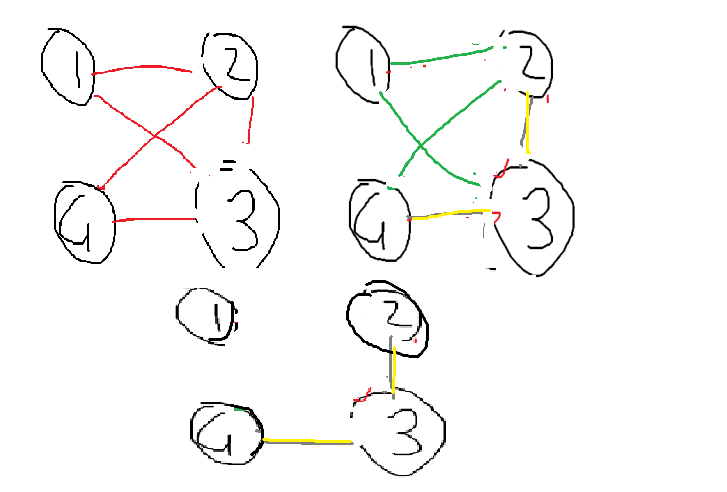
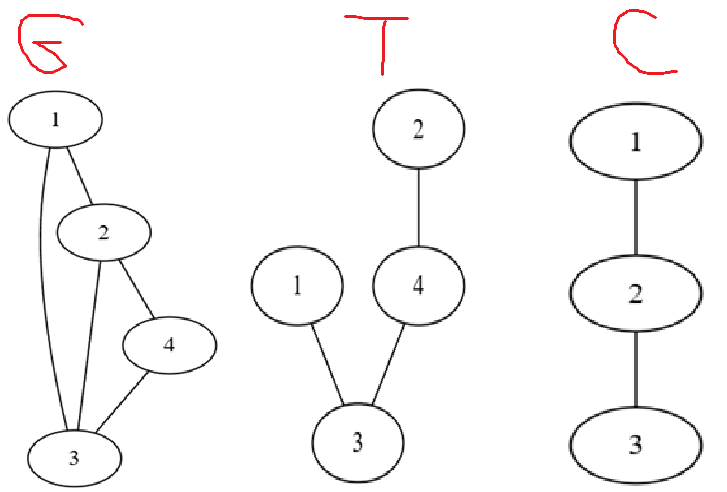
Sono arrivato al punto 5.2 - primo pallino

diff --git a/cycles.hpp b/cycles.hpp
@@ -1,0 +1,124 @@
+#pragma once
+#include <iostream> 
+#include <algorithm> 
+#include <vector> 
+#include <set> 
+#include <unordered_map>
+#include "directed_edge.hpp" 
+#include "directed_graph.hpp" 
+#include "components.hpp" 
+#include "containers.hpp" 
+//#include <Eigen/Dense>
+
+
+/* 1. CREAZIONE CICLI CON DFS*/
+
+struct Journey{
+    int from;      // nodo padre
+    int to;        // nodo figlio
+};
+template<typename T>
+undirected_graph dfs(const undirected_graph& G, int source, T& container) {
+    /* NOTA: il +1 nelle dimensione dei vettori è perché i nodi partono tutti da 1 e non da 0 */
+    std::vector<bool> reached(G.all_nodes().size()+1, false); // inizializzo un vettore di n = #nodi elementi a false 
+    undirected_graph tree;
+
+    container.put({source,source});
+
+    while(!container.empty()) { 
+        Journey step = container.get();
+        int step_from = step.from;
+        int step_to = step.to;
+        
+        if (reached[step_to]) {continue;}
+        reached[step_to] = true;
+
+        // Macchina
+        if (step_from != step_to) {
+            bool edge_added = false;
+
+            // cerco se l'arco originale era un resitore
+            for (const auto& r_edge : G.all_edges_res()) {
+                if ((r_edge.from() == step_from && r_edge.to() == step_to) || (r_edge.to() == step_from && r_edge.from() == step_to)) {
+                    tree.add_edge(r_edge); // Trovato! Lo aggiungo all'albero
+                    edge_added = true;
+                    break;
+                }
+            }
+            
+            // se non era un resitore, cerco tra i generatori
+            if (!edge_added) {
+                for (const auto& g_edge : G.all_edges_gen()) {
+                    if ((g_edge.from() == step_from && g_edge.to() == step_to) ||  (g_edge.to() == step_from && g_edge.from() == step_to)) {
+                        tree.add_edge(g_edge); // Trovato! Lo aggiungo all'albero
+                        break;
+                    }
+                }
+            }
+        }
+        
+        for (auto w : G.neighbors(step_to)) {
+            if (!reached[w]) {            
+                container.put({step_to, w});
+            }
+        }
+    }
+    return tree;
+}
+
+bool find_path(const undirected_graph& T, int u, int v, std::vector<bool>& visited, std::vector<int>& path) { 
+    visited[u] = true;
+    path.push_back(u);
+    if (u == v) {
+        return true;
+    }
+    for (int n : T.neighbors(u)) {
+        if (!visited[n]) {
+            if (find_path(T, n, v, visited, path)) {
+                return true;
+            }
+        }
+    }
+    path.pop_back();
+    return false;   
+
+}
+
+std::vector<int> create_path(const undirected_graph& T, int u, int v) {
+    std::vector<int> path;
+    std::vector<bool> visited(T.all_nodes().size() + 1, false);
+
+    find_path(T, u, v, visited, path);
+
+    return path;
+}
+
+std::vector<std::vector<int>> get_fundamental_cycles(const undirected_graph& G) {
+    int source = *G.all_nodes().begin(); // prendo il primo nodo come sorgente
+    stack<Journey> s;
+    undirected_graph T = dfs(G, source, s);
+    undirected_graph C = G - T;
+    int k = G.all_edges_gen().size() + G.all_edges_res().size() - G.all_nodes().size() + 1; // rappresenta il numero di cicli dati da |E|-|V|+1
+
+    std::vector<std::vector<int>> cycles; // inizializzo un vettore di vettori
+    for (auto& edge : C.all_edges_gen()) { 
+        int _from = edge.from();
+        int _to = edge.to();
+        std::vector<int> cycle = create_path(T, _from, _to);
+        cycle.push_back(_from);
+        cycles.push_back(cycle);
+    }
+    for (auto& edge : C.all_edges_res()) { 
+        int _from = edge.from();
+        int _to = edge.to();
+        std::vector<int> cycle = create_path(T, _from, _to);
+        cycle.push_back(_from);
+        cycles.push_back(cycle);
+    }
+    // la pratica conferma la teoria? 
+    if (cycles.size() != k) { // nota: cycles.size() restituisce SOLO il numero di righe
+        std::cerr << "Attenzione: Trovati " << cycles.size() << " cicli, ma se ne aspettavano " << k << "!\n";
+    }
+    return cycles;
+
+}

diff --git a/main.cpp b/main.cpp
@@ -4,7 +4,8 @@
 #include "containers.hpp"
 #include "directed_edge.hpp"
 #include "directed_graph.hpp"
-#include "graph_visits.hpp"
+//#include "graph_visits.hpp"
+#include "cycles.hpp"
 #include "components.hpp"
 
 /*file che si occupa di trasformare l'input.txt in una struttura grafo*/
@@ -67,8 +68,11 @@ int main(int argc, const char *argv[] ) {
 
     stack<Journey> s;  // uso uno stack cosi che graph_visit diventi una dfs
     std::cout << G << std::endl;
-    undirected_graph T = graph_visit(G, 1, s);
-
+    undirected_graph T = dfs(G, 1, s);
+    int k = G.all_edges_gen().size() + G.all_edges_res().size() - G.all_nodes().size() + 1; // rappresenta il numero di cicli dati da |E|-|V|+1
+    for (int i=0; i<k; i++) {
+        print_vector(get_fundamental_cycles(G)[i]);
+    }
     std::cout << T << std::endl;
 
     std::cout << G - T << std::endl;

diff --git a/directed_graph.hpp b/directed_graph.hpp
@@ -12,7 +12,7 @@
 class undirected_graph {
 private: 
     std::unordered_map<int, std::set<int>> graph;
-    std::set<int> nodes;    // memorizzo i nodi in un set (che ignora i duplicati)
+    std::set<int> nodes;    // memorizzo i nodi in un set 
     std::vector<undirected_edge<generator>> gen_edges; 
     std::vector<undirected_edge<resistor>> res_edges; 
     //std::vector<directed_edge<T>> _edges;  